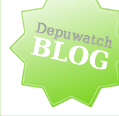
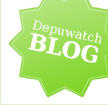
blog

diff --git a/public/stylesheets/style.css b/public/stylesheets/style.css
@@ -186,15 +186,15 @@ text-decoration: none;
 }
 
 div.title1_sub {
-	color: #734347;
+color: #734347;
     font-family: 'Crimson Text';
     font-size: 17px;
-    margin-left: 185px;
+    left: -222px;
+    margin-left: 155px;
     position: relative;
     text-shadow: 2px 2px 3px #CDCDCD;
-    top: -17px;
-    width: 476px;
-    left:50px;
+    top: 65px;
+    width: 637px;
 }
 
 div.navi {
@@ -217,11 +217,13 @@ div.logo {
 }
 
 div.blog {
-background-image: url("/images/blog.png");
-    display: block;
-    float: left;
-    height: 103px;
-    width: 127px;
+    background-image: url("/images/blog.png");
+    background-position: right top;
+    background-repeat: no-repeat;
+    height: 109px;
+    left: 870px;
+    position: absolute;
+    width: 110px;
 }
 
 div.title {
